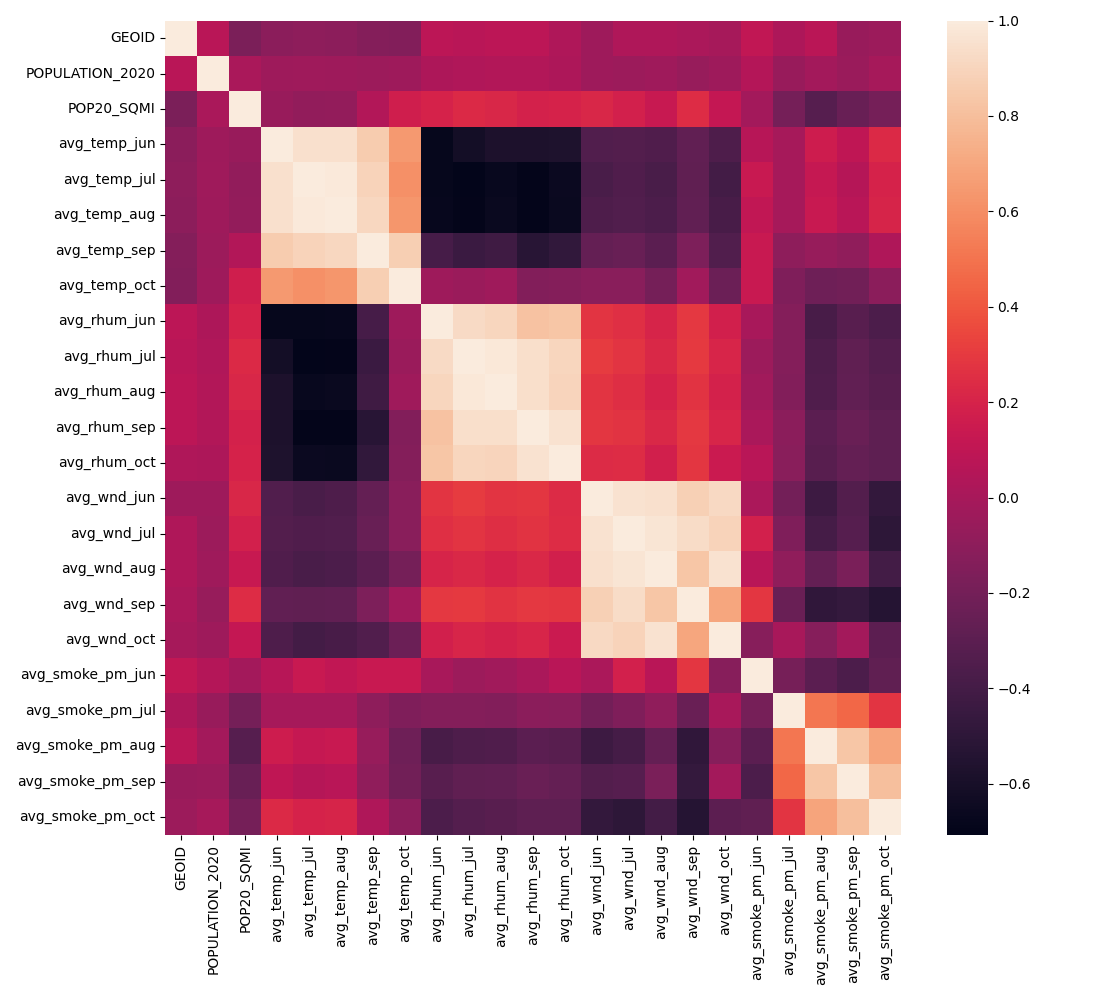
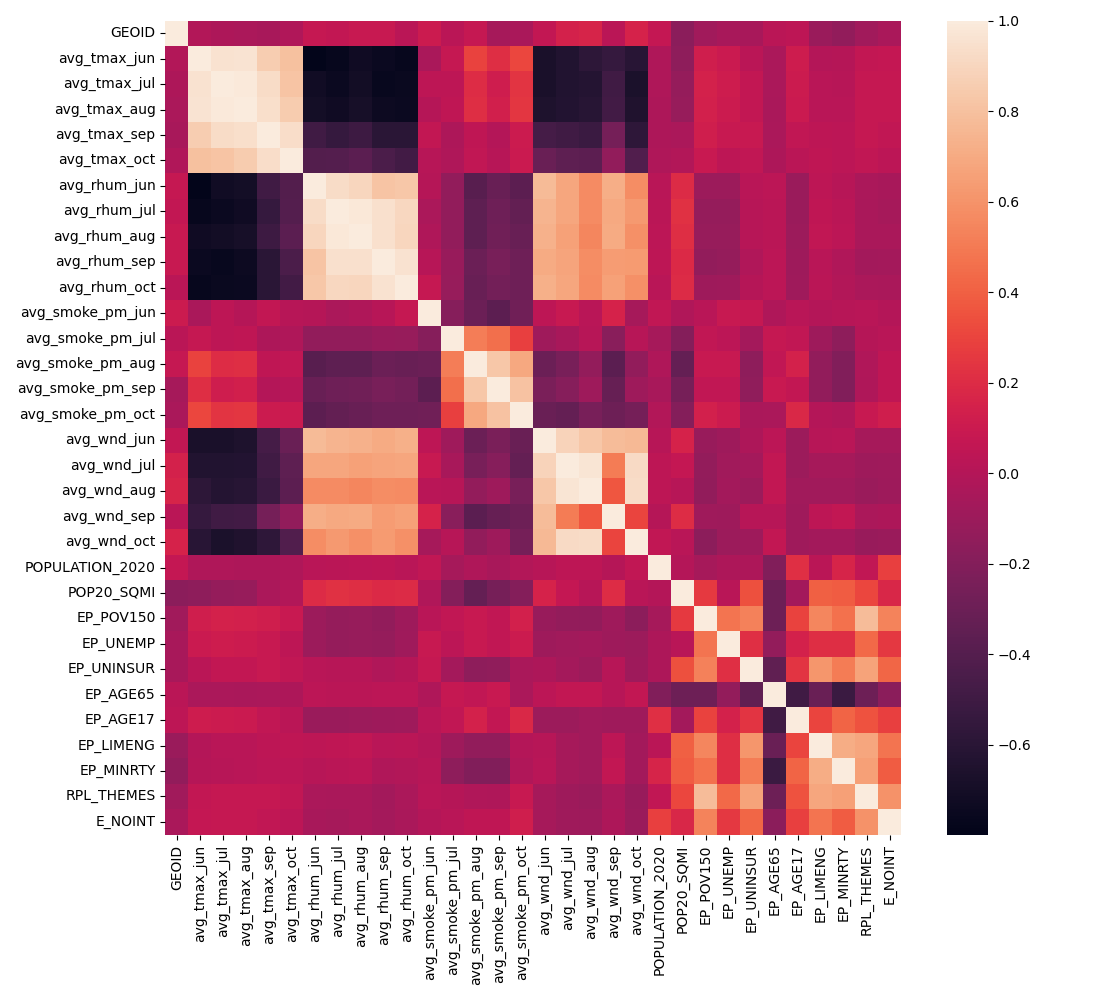
update data dicts

diff --git a/notebooks/utils.py b/notebooks/utils.py
@@ -29,7 +29,7 @@ data_dict = {
             "Temporal Resolution": "annual",
             "Original Data Sources": "https://www.atsdr.cdc.gov/placeandhealth/svi/data_documentation_download.html",
             "Data Processing Code": "`notebooks/102_cdc_atsdr_svi.ipynb`",
-            "Data Location": "https://drive.google.com/drive/folders/1De4e2DJhP1gzL5r-l9dXw4Jpa48imDH5?usp=sharing",
+            "Data Location": "https://dataverse.harvard.edu/dataset.xhtml?persistentId=doi:10.7910/DVN/SYNPBS",
         },
         "var_list": {
             "FIPS": "Federal Information Processing Standard state code. This is a unique identifier for geographic regions in the United States, often used in data collection and analysis.",
@@ -55,15 +55,15 @@ data_dict = {
             "RPL_THEME3": "Percentile ranking for Racial and Ethnic Minority Status theme.",
             "RPL_THEME4": "Percentile ranking for Housing Type/ Transportation theme.",
             "RPL_THEMES": "Overall percentile ranking.",
-        }
+        },
     },
     "climate_exposure_ca": {
         "primary": {
-            "avg_rhum_jun": "avg_temp_jun",
+            "avg_rhum_jun": "avg_tmax_jun",
             "avg_smoke_pm_sep": "avg_wnd_sep",
-            "avg_smoke_pm_sep":"POP20_SQMI",
-            "avg_wnd_sep":"POP20_SQMI",
-            "avg_rhum_aug":"POP20_SQMI",
+            "avg_smoke_pm_sep": "POP20_SQMI",
+            "avg_wnd_sep": "POP20_SQMI",
+            "avg_rhum_aug": "POP20_SQMI",
         },
         "secondary": {
             "avg_rhum_jul": "avg_temp_jun",
@@ -83,7 +83,7 @@ data_dict = {
             "Temporal Resolution": "annual",
             "Original Data Sources": "https://prism.oregonstate.edu and https://www.ncei.noaa.gov/access/monitoring/wind/",
             "Data Processing Code": "`notebooks/104_climate_exposure.ipynb`",
-            "Data Location": "https://drive.google.com/drive/folders/1De4e2DJhP1gzL5r-l9dXw4Jpa48imDH5?usp=sharing",
+            "Data Location": "https://dataverse.harvard.edu/dataset.xhtml?persistentId=doi:10.7910/DVN/SYNPBS",
         },
         "var_list": {
             "GEOID": "Unique geographic identifier of the area.",
@@ -109,14 +109,23 @@ data_dict = {
             "avg_smoke_pm_aug": "Average particulate matter from smoke in the area for the month of August.",
             "avg_smoke_pm_sep": "Average particulate matter from smoke in the area for the month of September.",
             "avg_smoke_pm_oct": "Average particulate matter from smoke in the area for the month of October.",
-        }
+            "EP_AGE17": "The estimated percentage of the population aged 17 or younger.",
+            "EP_AGE65": "The estimated percentage of the population aged 65 or older.",
+            "EP_NOINT": "The estimated percentage of households without an internet subscription.",
+            "EP_POV150": "The estimated percentage of the population living at 150% of the poverty level or below.",
+            "EP_UNEMP": "The estimated percentage of the labor force that is unemployed.",
+            "EP_MINRTY": "The estimated percentage of the population identified as a racial or ethnic minority.",
+            "EP_LIMENG": "The estimated percentage of the population with limited English proficiency.",
+            "EP_UNINSUR": "The estimated percentage of the population without health insurance.",
+            "RPL_THEMES": "Overall percentile ranking.",
+        },
     },
     "air_pollution_mortality_us": {
         "primary": {
-            "qd_mean_pm25":"cdc_mortality_pct",
-            "cs_poverty":"cdc_mortality_pct",
-            "cs_median_house_value":"cdc_mortality_pct",
-            "gmet_mean_summer_tmmn":"qd_mean_pm25",
+            "qd_mean_pm25": "cdc_mortality_pct",
+            "cs_poverty": "cdc_mortality_pct",
+            "cs_median_house_value": "cdc_mortality_pct",
+            "gmet_mean_summer_tmmn": "qd_mean_pm25",
             "gmet_mean_sph": "qd_mean_pm25",
         },
         "secondary": {
@@ -161,7 +170,7 @@ data_dict = {
             "Temporal Resolution": "annual",
             "Original Data Sources": "https://dataverse.harvard.edu/dataset.xhtml?persistentId=doi:10.7910/DVN/L7YF2G and https://wonder.cdc.gov/controller/datarequest/D77",
             "Data Processing Code": "`notebooks/103_air_pollution.ipynb`",
-            "Data Location": "https://drive.google.com/drive/folders/1De4e2DJhP1gzL5r-l9dXw4Jpa48imDH5?usp=sharing",
+            "Data Location": "https://dataverse.harvard.edu/dataset.xhtml?persistentId=doi:10.7910/DVN/SYNPBS",
         },
         "var_list": {
             "qd_mean_pm25": "Mean PM2.5 air pollution level. PM2.5 refers to atmospheric particulate matter with a diameter of less than 2.5 micrometers.",
@@ -212,13 +221,13 @@ data_dict = {
             "bin_NORTHEAST": "Binary variable indicating whether the location is in the Northeast region of the United States.",
             "bin_SOUTH": "Binary variable indicating whether the location is in the Southern region of the United States.",
             "bin_WEST": "Binary variable indicating whether the location is in the Western region of the United States.",
-        }
+        },
     },
     "election_us": {
         "primary": {
-            "cs_asian":"election_dem_pct",
-            "cs_ed_highschool":"election_dem_pct",
-            "cdc_suicides":"election_dem_pct",
+            "cs_asian": "election_dem_pct",
+            "cs_ed_highschool": "election_dem_pct",
+            "cdc_suicides": "election_dem_pct",
             "health_phy_inactive_pct": "life-expectancy",
             "bls_housing_costs": "bls_labor_force",
         },
@@ -233,7 +242,7 @@ data_dict = {
             "cs_ed_above_college": "life-expectancy",
             "poverty-rate": "life-expectancy",
             "bls_living_wage": "bls_housing_costs",
-            "noaa_snow":"life-expectancy",
+            "noaa_snow": "life-expectancy",
             "bls_tax_costs": "bls_living_wage",
             "health_poor_health_pct": "noaa_snow",
             "health_smokers_pct": "life-expectancy",
@@ -268,7 +277,7 @@ data_dict = {
             "Temporal Resolution": "annual",
             "Original Data Sources": "https://github.com/evangambit/JsonOfCounties",
             "Data Processing Code": "`notebooks/101_election_data.ipynb`",
-            "Data Location": "https://drive.google.com/drive/folders/1De4e2DJhP1gzL5r-l9dXw4Jpa48imDH5?usp=sharing",
+            "Data Location": "https://dataverse.harvard.edu/dataset.xhtml?persistentId=doi:10.7910/DVN/SYNPBS",
         },
         "var_list": {
             "fips": "Federal Information Processing Standard code, a unique identifier for counties and county equivalents in the United States.",
@@ -319,7 +328,7 @@ data_dict = {
             "cs_asian": "Population count identifying as Asian.",
             "cs_hispanic": "Population count identifying as Hispanic.",
             "election_dem_pct": "Percentage of votes received by the Democratic party in the last election.",
-        }
+        },
     },
 }
 
@@ -343,7 +352,7 @@ overview_temp = """
 """
 
 
-data_dict_temp="""# Overview
+data_dict_temp = """# Overview
 
 {}
 

diff --git a/data/dataset_climate_exposure_ca.md b/data/dataset_climate_exposure_ca.md
@@ -9,14 +9,14 @@
 | Temporal Resolution    | annual                                                                                                                                                                                                                                                                                                |
 | Original Data Sources  | https://prism.oregonstate.edu and https://www.ncei.noaa.gov/access/monitoring/wind/                                                                                                                                                                                                                   |
 | Data Processing Code   | `notebooks/104_climate_exposure.ipynb`                                                                                                                                                                                                                                                                |
-| Data Location          | https://drive.google.com/drive/folders/1De4e2DJhP1gzL5r-l9dXw4Jpa48imDH5?usp=sharing                                                                                                                                                                                                                  |
-| Number of Variables    | 23                                                                                                                                                                                                                                                                                                    |
-| Number of Observations | 8673                                                                                                                                                                                                                                                                                                  |
+| Data Location          | https://dataverse.harvard.edu/dataset.xhtml?persistentId=doi:10.7910/DVN/SYNPBS                                                                                                                                                                                                                       |
+| Number of Variables    | 32                                                                                                                                                                                                                                                                                                    |
+| Number of Observations | 8616                                                                                                                                                                                                                                                                                                  |
 | Missing Cells          | 0                                                                                                                                                                                                                                                                                                     |
 | Missing cells (%)      | 0.0%                                                                                                                                                                                                                                                                                                  |
 | Duplicate Rows         | 0                                                                                                                                                                                                                                                                                                     |
 | Duplicate Rows (%)     | 0.0%                                                                                                                                                                                                                                                                                                  |
-| Total Size In Memory   | 1.52 MB                                                                                                                                                                                                                                                                                               |
+| Total Size In Memory   | 2.1 MB                                                                                                                                                                                                                                                                                                |
 
 # Variables
 
@@ -45,6 +45,15 @@
 | `avg_smoke_pm_aug` | Average particulate matter from smoke in the area for the month of August. |
 | `avg_smoke_pm_sep` | Average particulate matter from smoke in the area for the month of September. |
 | `avg_smoke_pm_oct` | Average particulate matter from smoke in the area for the month of October. |
+| `EP_AGE17` | The estimated percentage of the population aged 17 or younger. |
+| `EP_AGE65` | The estimated percentage of the population aged 65 or older. |
+| `EP_NOINT` | The estimated percentage of households without an internet subscription. |
+| `EP_POV150` | The estimated percentage of the population living at 150% of the poverty level or below. |
+| `EP_UNEMP` | The estimated percentage of the labor force that is unemployed. |
+| `EP_MINRTY` | The estimated percentage of the population identified as a racial or ethnic minority. |
+| `EP_LIMENG` | The estimated percentage of the population with limited English proficiency. |
+| `EP_UNINSUR` | The estimated percentage of the population without health insurance. |
+| `RPL_THEMES` | Overall percentile ranking. |
 
 # Correlations
 
@@ -52,13 +61,13 @@
 
 # Sample
 
-|      GEOID |   POPULATION_2020 |   POP20_SQMI |   avg_temp_jun |   avg_temp_jul |   avg_temp_aug |   avg_temp_sep |   avg_temp_oct |   avg_rhum_jun |   avg_rhum_jul |   avg_rhum_aug |   avg_rhum_sep |   avg_rhum_oct |   avg_wnd_jun |   avg_wnd_jul |   avg_wnd_aug |   avg_wnd_sep |   avg_wnd_oct |   avg_smoke_pm_jun |   avg_smoke_pm_jul |   avg_smoke_pm_aug |   avg_smoke_pm_sep |   avg_smoke_pm_oct |
-|-----------:|------------------:|-------------:|---------------:|---------------:|---------------:|---------------:|---------------:|---------------:|---------------:|---------------:|---------------:|---------------:|--------------:|--------------:|--------------:|--------------:|--------------:|-------------------:|-------------------:|-------------------:|-------------------:|-------------------:|
-| 6.0014e+09 |              3038 |       1133.6 |          17.95 |        17.8629 |        20.8903 |        21.33   |        20.4871 |        78.0967 |        84.3613 |        77.3323 |        71.41   |        55.3065 |       6.95934 |       6.01075 |       5.44557 |       4.54262 |       5.98468 |                  0 |           0.133076 |            6.6703  |            25.2394 |            5.94424 |
-| 6.0014e+09 |              2001 |       8700   |          17.95 |        17.65   |        19.579  |        21.0133 |        20.1258 |        79.64   |        84.2    |        80.3677 |        74.6667 |        62.9    |       6.95934 |       6.01075 |       5.44557 |       4.54262 |       5.98468 |                  0 |           0.14501  |            6.92154 |            25.341  |            6.17948 |
-| 6.0014e+09 |              5504 |      12800   |          17.95 |        17.65   |        19.579  |        21.0133 |        20.1258 |        79.64   |        84.2    |        80.3677 |        74.6667 |        62.9    |       6.95934 |       6.01075 |       5.44557 |       4.54262 |       5.98468 |                  0 |           0.14501  |            6.92154 |            25.341  |            6.17948 |
-| 6.0014e+09 |              4112 |      14685.7 |          17.95 |        17.65   |        19.579  |        21.0133 |        20.1258 |        79.64   |        84.2    |        80.3677 |        74.6667 |        62.9    |       6.95934 |       6.01075 |       5.44557 |       4.54262 |       5.98468 |                  0 |           0.14501  |            6.92154 |            25.341  |            6.17948 |
-| 6.0014e+09 |              3644 |      15843.5 |          17.95 |        17.65   |        19.579  |        21.0133 |        20.1258 |        79.64   |        84.2    |        80.3677 |        74.6667 |        62.9    |       6.95934 |       6.01075 |       5.44557 |       4.54262 |       5.98468 |                  0 |           0.14501  |            6.92154 |            25.341  |            6.17948 |
+|      GEOID |   avg_tmax_jun |   avg_tmax_jul |   avg_tmax_aug |   avg_tmax_sep |   avg_tmax_oct |   avg_rhum_jun |   avg_rhum_jul |   avg_rhum_aug |   avg_rhum_sep |   avg_rhum_oct |   avg_smoke_pm_jun |   avg_smoke_pm_jul |   avg_smoke_pm_aug |   avg_smoke_pm_sep |   avg_smoke_pm_oct |   avg_wnd_jun |   avg_wnd_jul |   avg_wnd_aug |   avg_wnd_sep |   avg_wnd_oct |   POPULATION_2020 |   POP20_SQMI |   EP_POV150 |   EP_UNEMP |   EP_UNINSUR |   EP_AGE65 |   EP_AGE17 |   EP_LIMENG |   EP_MINRTY |   RPL_THEMES |   E_NOINT |
+|-----------:|---------------:|---------------:|---------------:|---------------:|---------------:|---------------:|---------------:|---------------:|---------------:|---------------:|-------------------:|-------------------:|-------------------:|-------------------:|-------------------:|--------------:|--------------:|--------------:|--------------:|--------------:|------------------:|-------------:|------------:|-----------:|-------------:|-----------:|-----------:|------------:|------------:|-------------:|----------:|
+| 6.0014e+09 |        24.04   |        23.9242 |        26.9435 |          27.18 |        25.721  |        78.0967 |        84.3613 |        77.3323 |        71.41   |        55.3065 |                  0 |           0.133076 |            6.6703  |            25.2394 |            5.94424 |       4.23107 |       4.09597 |       3.59107 |       2.12102 |       2.64452 |              3038 |       1133.6 |         6.8 |        1   |          0.5 |       25.3 |       18.6 |         0   |        27.3 |       0.0255 |       320 |
+| 6.0014e+09 |        23.1767 |        22.3339 |        23.9565 |          26.17 |        25.5952 |        79.64   |        84.2    |        80.3677 |        74.6667 |        62.9    |                  0 |           0.14501  |            6.92154 |            25.341  |            6.17948 |       4.24232 |       4.10167 |       3.5977  |       2.13196 |       2.6516  |              2001 |       8700   |         7   |        7.9 |          0.4 |       21.7 |       16.3 |         1.3 |        32.8 |       0.1978 |        30 |
+| 6.0014e+09 |        23.1767 |        22.3339 |        23.9565 |          26.17 |        25.5952 |        79.64   |        84.2    |        80.3677 |        74.6667 |        62.9    |                  0 |           0.14501  |            6.92154 |            25.341  |            6.17948 |       4.24565 |       4.10315 |       3.59958 |       2.13571 |       2.65343 |              5504 |      12800   |         8.6 |        3.4 |          0.3 |       16.4 |       17   |         0.3 |        39   |       0.356  |       300 |
+| 6.0014e+09 |        23.1767 |        22.3339 |        23.9565 |          26.17 |        25.5952 |        79.64   |        84.2    |        80.3677 |        74.6667 |        62.9    |                  0 |           0.14501  |            6.92154 |            25.341  |            6.17948 |       4.24649 |       4.10468 |       3.60054 |       2.13374 |       2.65534 |              4112 |      14685.7 |        12   |        2.5 |          2.6 |       10.8 |       21.1 |         1.3 |        35.5 |       0.1596 |        72 |
+| 6.0014e+09 |        23.1767 |        22.3339 |        23.9565 |          26.17 |        25.5952 |        79.64   |        84.2    |        80.3677 |        74.6667 |        62.9    |                  0 |           0.14501  |            6.92154 |            25.341  |            6.17948 |       4.25036 |       4.1075  |       3.60318 |       2.13536 |       2.65884 |              3644 |      15843.5 |        12.8 |        6.4 |          2.7 |       15.1 |       11.5 |         1.1 |        55.3 |       0.1312 |       207 |
 
 
 Generated with `notebooks/201_make_data_dict.ipynb`.

diff --git a/data/dataset_cdc_atsdr_svi_tx.md b/data/dataset_cdc_atsdr_svi_tx.md
@@ -9,7 +9,7 @@
 | Temporal Resolution    | annual                                                                                                                                                                                                                                                             |
 | Original Data Sources  | https://www.atsdr.cdc.gov/placeandhealth/svi/data_documentation_download.html                                                                                                                                                                                      |
 | Data Processing Code   | `notebooks/102_cdc_atsdr_svi.ipynb`                                                                                                                                                                                                                                |
-| Data Location          | https://drive.google.com/drive/folders/1De4e2DJhP1gzL5r-l9dXw4Jpa48imDH5?usp=sharing                                                                                                                                                                               |
+| Data Location          | https://dataverse.harvard.edu/dataset.xhtml?persistentId=doi:10.7910/DVN/SYNPBS                                                                                                                                                                                    |
 | Number of Variables    | 23                                                                                                                                                                                                                                                                 |
 | Number of Observations | 6828                                                                                                                                                                                                                                                               |
 | Missing Cells          | 0                                                                                                                                                                                                                                                                  |

diff --git a/data/dataset_election_us.md b/data/dataset_election_us.md
@@ -9,7 +9,7 @@
 | Temporal Resolution    | annual                                                                                                                                                                                                                                                          |
 | Original Data Sources  | https://github.com/evangambit/JsonOfCounties                                                                                                                                                                                                                    |
 | Data Processing Code   | `notebooks/101_election_data.ipynb`                                                                                                                                                                                                                             |
-| Data Location          | https://drive.google.com/drive/folders/1De4e2DJhP1gzL5r-l9dXw4Jpa48imDH5?usp=sharing                                                                                                                                                                            |
+| Data Location          | https://dataverse.harvard.edu/dataset.xhtml?persistentId=doi:10.7910/DVN/SYNPBS                                                                                                                                                                                 |
 | Number of Variables    | 48                                                                                                                                                                                                                                                              |
 | Number of Observations | 3142                                                                                                                                                                                                                                                            |
 | Missing Cells          | 985                                                                                                                                                                                                                                                             |

diff --git a/data/dataset_air_pollution_mortality_us.md b/data/dataset_air_pollution_mortality_us.md
@@ -9,7 +9,7 @@
 | Temporal Resolution    | annual                                                                                                                                                                                                                   |
 | Original Data Sources  | https://dataverse.harvard.edu/dataset.xhtml?persistentId=doi:10.7910/DVN/L7YF2G and https://wonder.cdc.gov/controller/datarequest/D77                                                                                    |
 | Data Processing Code   | `notebooks/103_air_pollution.ipynb`                                                                                                                                                                                      |
-| Data Location          | https://drive.google.com/drive/folders/1De4e2DJhP1gzL5r-l9dXw4Jpa48imDH5?usp=sharing                                                                                                                                     |
+| Data Location          | https://dataverse.harvard.edu/dataset.xhtml?persistentId=doi:10.7910/DVN/SYNPBS                                                                                                                                          |
 | Number of Variables    | 48                                                                                                                                                                                                                       |
 | Number of Observations | 3109                                                                                                                                                                                                                     |
 | Missing Cells          | 141                                                                                                                                                                                                                      |
